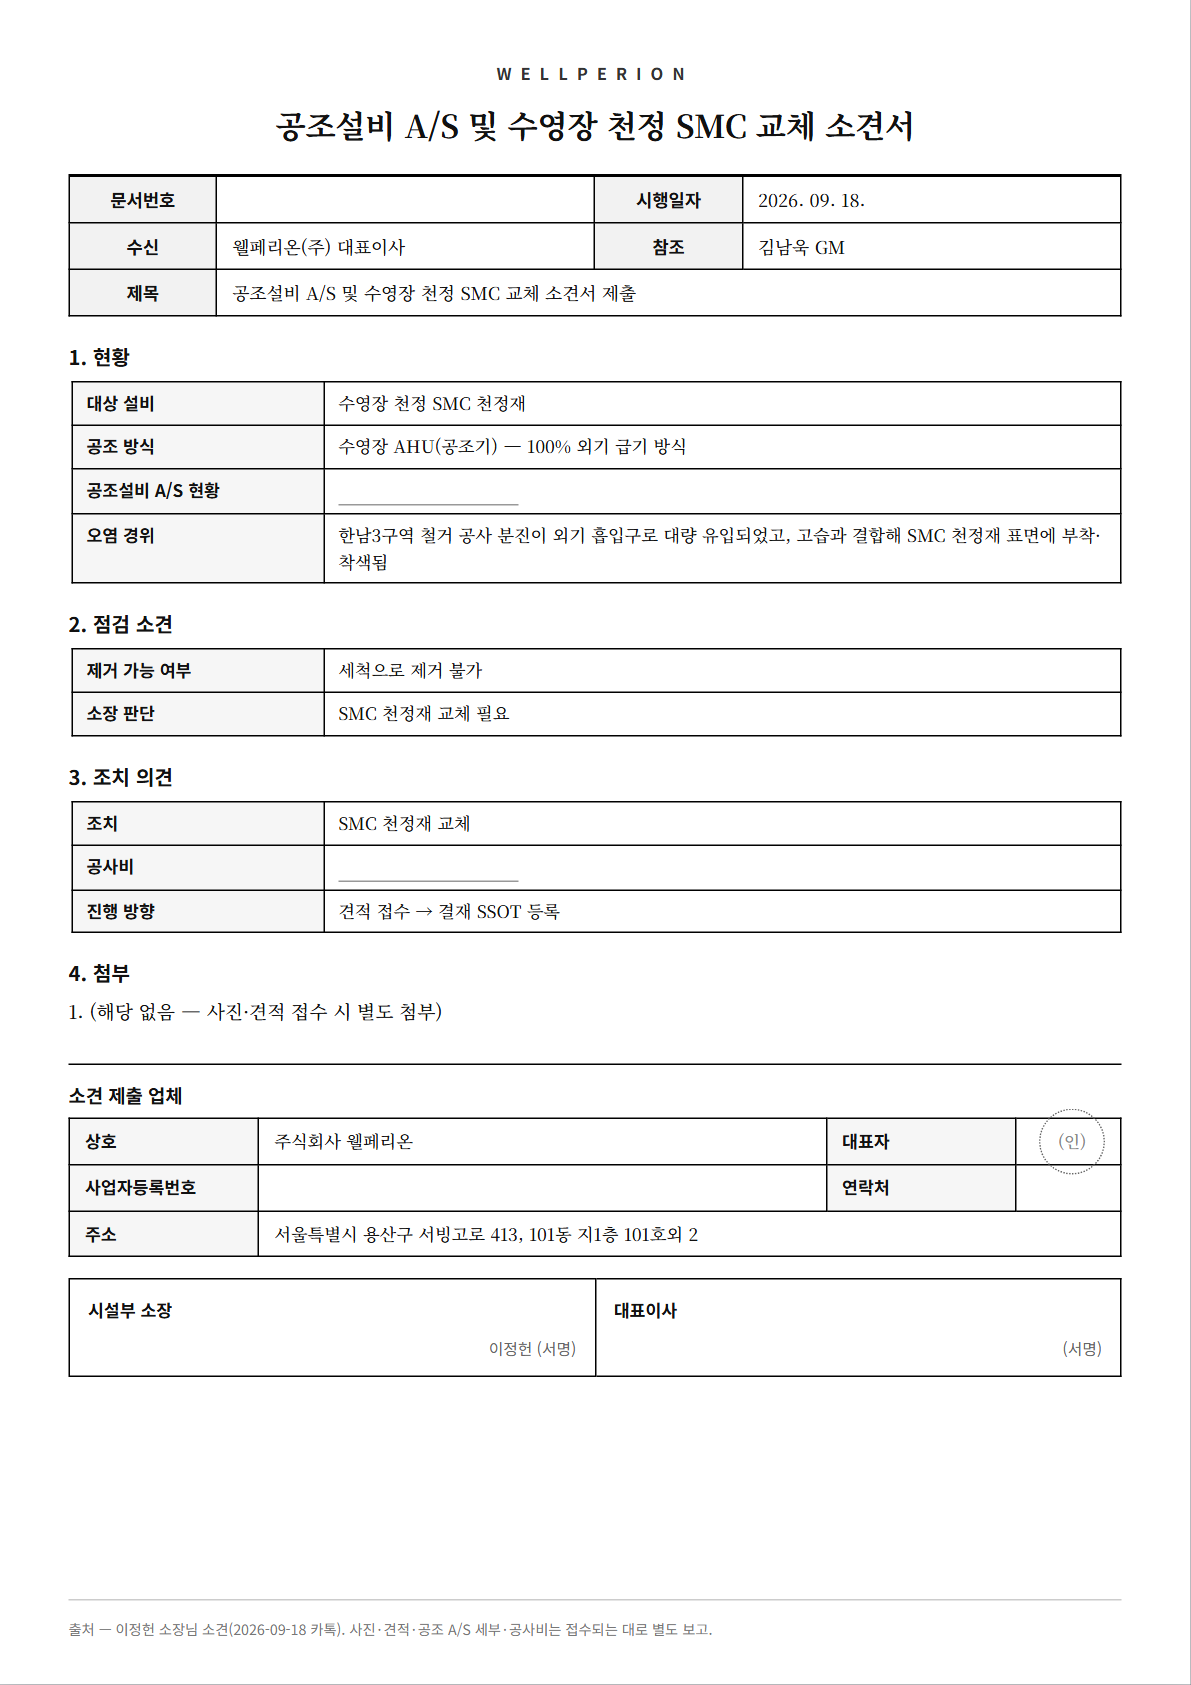
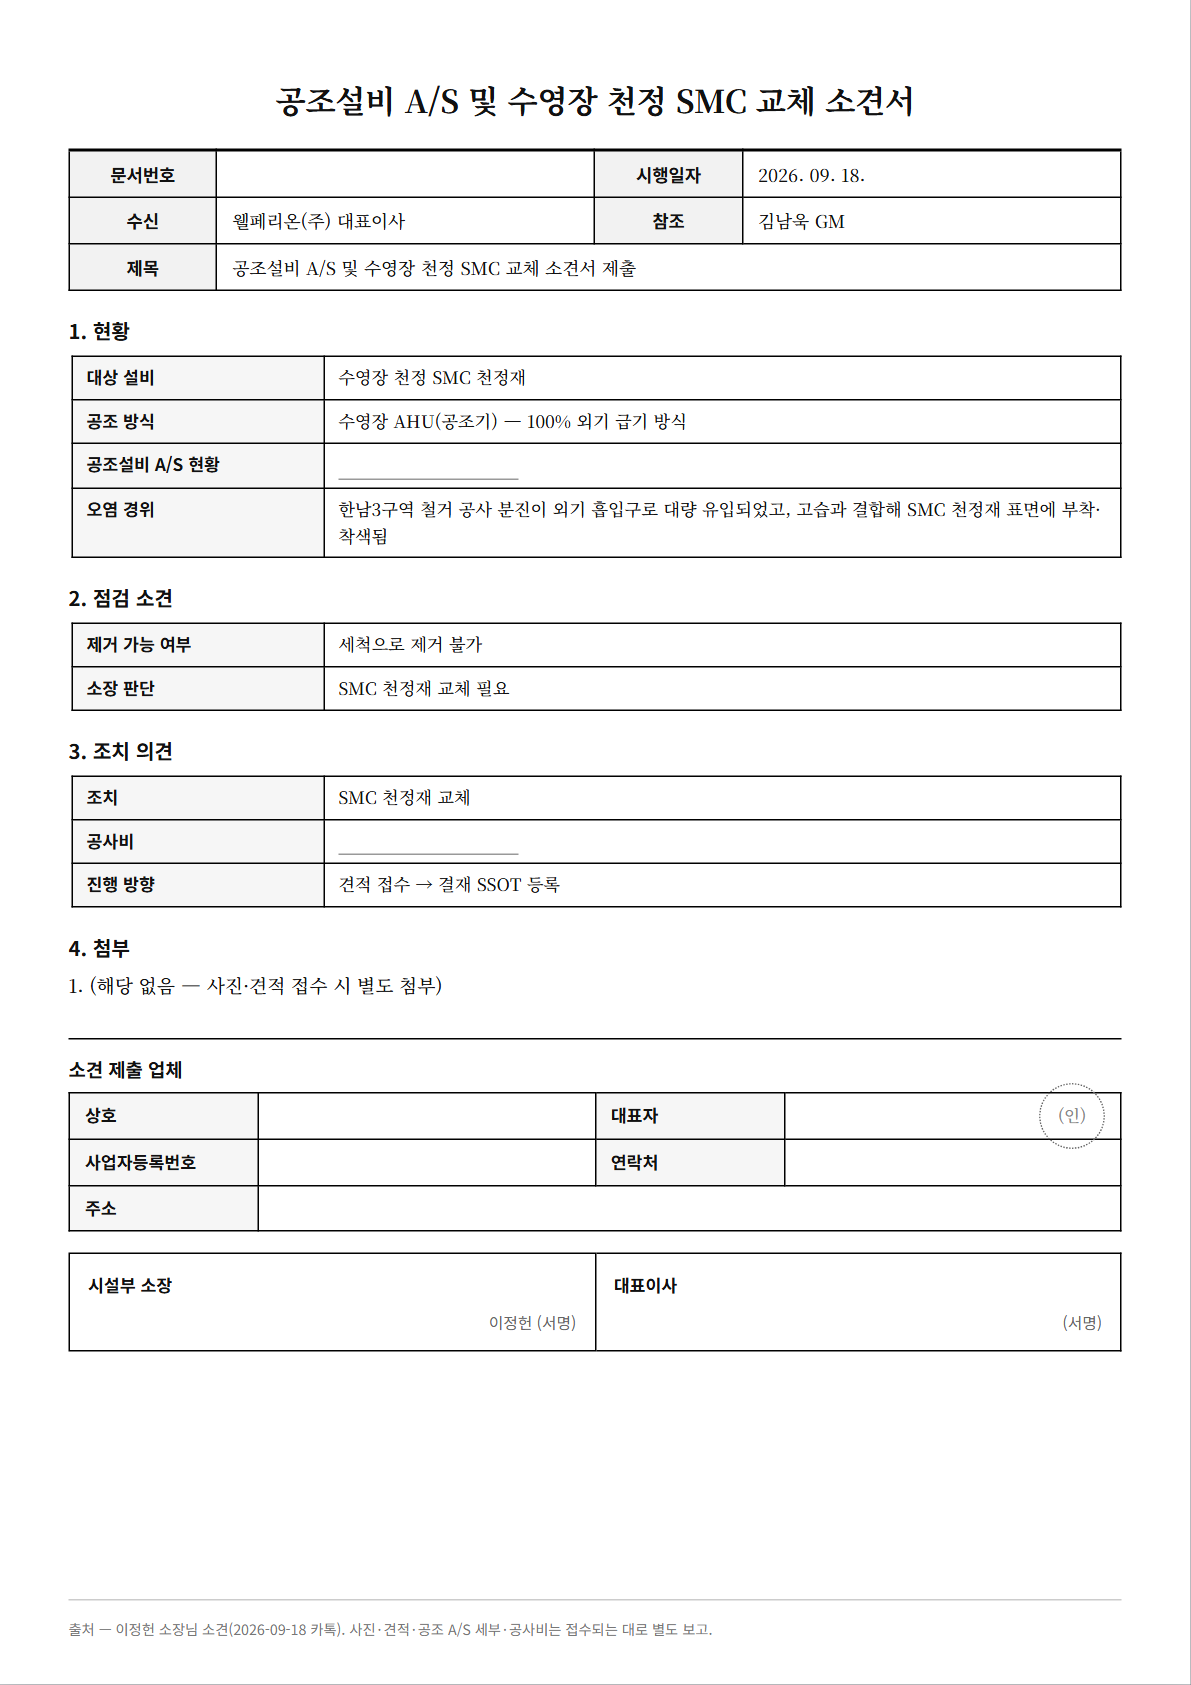
[시토] docs(facility): SMC 소견서 소견 제출 업체 칸 정정 — 웰페리온 아님(외부 업체) · 상호·주소 공란 (배 12799 · GM 15:11 정정) [지연 재시도]

Changed region(s): [[0.0621, 0.0926, 0.932, 0.8024], [0.1864, 0.0309, 0.7767, 0.1852], [0.2485, 0.3703, 0.4349, 0.432]]

diff --git a/3. 웰페리온 가이드/reports/260918_수영장_천정_SMC교체_소견서_A4.html b/3. 웰페리온 가이드/reports/260918_수영장_천정_SMC교체_소견서_A4.html
@@ -79,7 +79,6 @@ table.submit-tb th{ background:#F6F6F6; font-weight:700; width:18%; text-align:l
 </div>
 
 <div class="page">
-  <div class="co">WELLPERION</div>
   <div class="title">공조설비 A/S 및 수영장 천정 SMC 교체 소견서</div>
 
   <table class="doc">
@@ -148,9 +147,9 @@ table.submit-tb th{ background:#F6F6F6; font-weight:700; width:18%; text-align:l
     <div class="submit-t">소견 제출 업체</div>
     <table class="submit-tb">
       <tbody>
-        <tr><th>상호</th><td>주식회사 웰페리온</td><th>대표자</th><td class="seal-cell"><span class="seal">(인)</span></td></tr>
+        <tr><th>상호</th><td></td><th>대표자</th><td class="seal-cell"><span class="seal">(인)</span></td></tr>
         <tr><th>사업자등록번호</th><td></td><th>연락처</th><td></td></tr>
-        <tr><th>주소</th><td colspan="3">서울특별시 용산구 서빙고로 413, 101동 지1층 101호외 2</td></tr>
+        <tr><th>주소</th><td colspan="3"></td></tr>
       </tbody>
     </table>
   </div>
